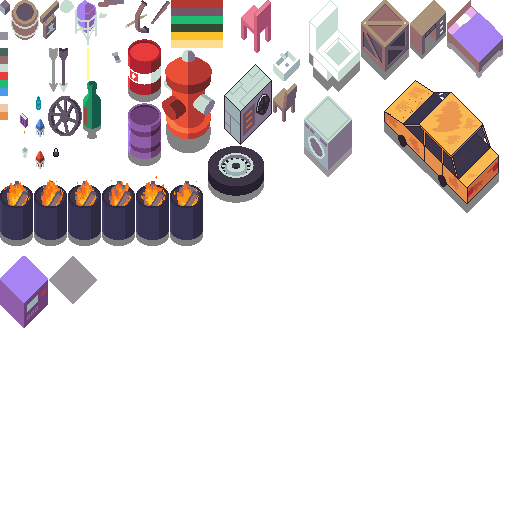
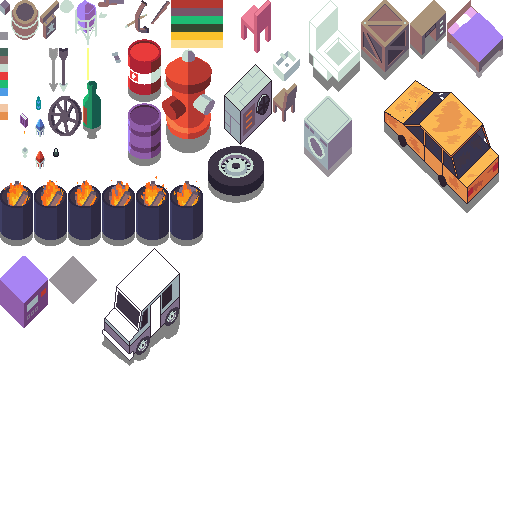
0.7.188

Changed region(s): [[0.1875, 0.5312, 0.375, 0.7188]]

diff --git a/bleed-common/lib/src/item_type.dart b/bleed-common/lib/src/item_type.dart
@@ -92,6 +92,7 @@ class ItemType {
   static const GameObjects_Chair                = Index_GameObjects + 29;
   static const GameObjects_Washing_Machine      = Index_GameObjects + 30;
   static const GameObjects_Car_Tire             = Index_GameObjects + 31;
+  static const GameObjects_Van                  = Index_GameObjects + 32;
 
   static const Resource_Wood = Index_Resources + 5;
   static const Resource_Stone = Index_Resources + 6;
@@ -222,11 +223,12 @@ class ItemType {
   static bool isNotTypeEmpty(int value) => value != Empty;
   static bool isPersistable(int value) => isTypeEnvironment(value);
 
-  
+
   static double getRadius(int value) => const <int, double> {
     GameObjects_Vending_Machine: 25,
     GameObjects_Bed: 25,
     GameObjects_Car: 25,
+    GameObjects_Van: 25,
     GameObjects_Crate_Wooden: 18,
     GameObjects_Barrel_Purple: 18,
     GameObjects_Barrel_Flaming: 18,
@@ -259,6 +261,7 @@ class ItemType {
     GameObjects_Aircon_South,
     GameObjects_Sink,
     GameObjects_Washing_Machine,
+    GameObjects_Van,
   ].contains(value);
 
   static bool isInteractable(int value) => const [
@@ -279,6 +282,7 @@ class ItemType {
         GameObjects_Toilet,
         GameObjects_Firehydrant,
         GameObjects_Car,
+        GameObjects_Van,
         GameObjects_Aircon_South,
         GameObjects_Tavern_Sign,
         GameObjects_Sink,
@@ -809,6 +813,7 @@ class ItemType {
      GameObjects_Washing_Machine,
      GameObjects_Car_Tire,
      GameObjects_Bottle,
+     GameObjects_Van,
   ];
 
   static bool isTypeBarrel(int type)=> const [
@@ -826,6 +831,7 @@ class ItemType {
     GameObjects_Vending_Machine,
     GameObjects_Firehydrant,
     GameObjects_Car,
+    GameObjects_Van,
     GameObjects_Washing_Machine,
   ].contains(type);
 }

diff --git a/bleed-server/lib/common/src/item_type.dart b/bleed-server/lib/common/src/item_type.dart
@@ -92,6 +92,7 @@ class ItemType {
   static const GameObjects_Chair                = Index_GameObjects + 29;
   static const GameObjects_Washing_Machine      = Index_GameObjects + 30;
   static const GameObjects_Car_Tire             = Index_GameObjects + 31;
+  static const GameObjects_Van                  = Index_GameObjects + 32;
 
   static const Resource_Wood = Index_Resources + 5;
   static const Resource_Stone = Index_Resources + 6;
@@ -222,11 +223,12 @@ class ItemType {
   static bool isNotTypeEmpty(int value) => value != Empty;
   static bool isPersistable(int value) => isTypeEnvironment(value);
 
-  
+
   static double getRadius(int value) => const <int, double> {
     GameObjects_Vending_Machine: 25,
     GameObjects_Bed: 25,
     GameObjects_Car: 25,
+    GameObjects_Van: 25,
     GameObjects_Crate_Wooden: 18,
     GameObjects_Barrel_Purple: 18,
     GameObjects_Barrel_Flaming: 18,
@@ -259,6 +261,7 @@ class ItemType {
     GameObjects_Aircon_South,
     GameObjects_Sink,
     GameObjects_Washing_Machine,
+    GameObjects_Van,
   ].contains(value);
 
   static bool isInteractable(int value) => const [
@@ -279,6 +282,7 @@ class ItemType {
         GameObjects_Toilet,
         GameObjects_Firehydrant,
         GameObjects_Car,
+        GameObjects_Van,
         GameObjects_Aircon_South,
         GameObjects_Tavern_Sign,
         GameObjects_Sink,
@@ -809,6 +813,7 @@ class ItemType {
      GameObjects_Washing_Machine,
      GameObjects_Car_Tire,
      GameObjects_Bottle,
+     GameObjects_Van,
   ];
 
   static bool isTypeBarrel(int type)=> const [
@@ -826,6 +831,7 @@ class ItemType {
     GameObjects_Vending_Machine,
     GameObjects_Firehydrant,
     GameObjects_Car,
+    GameObjects_Van,
     GameObjects_Washing_Machine,
   ].contains(type);
 }

diff --git a/gamestream_flutter/lib/game_atlas.dart b/gamestream_flutter/lib/game_atlas.dart
@@ -30,6 +30,7 @@ class AtlasItems {
         ItemType.GameObjects_Washing_Machine: 304,
         ItemType.GameObjects_Car_Tire: 208,
         ItemType.GameObjects_Bottle: 83,
+        ItemType.GameObjects_Van: 102,
         ItemType.Trinket_Ring_of_Health: 256,
         ItemType.Trinket_Ring_of_Damage: 288,
         ItemType.Empty: 224,
@@ -120,6 +121,7 @@ class AtlasItems {
         ItemType.GameObjects_Washing_Machine: 96,
         ItemType.GameObjects_Car_Tire: 146,
         ItemType.GameObjects_Bottle: 81,
+        ItemType.GameObjects_Van: 248,
         ItemType.Trinket_Ring_of_Health: 32,
         ItemType.Trinket_Ring_of_Damage: 32,
         ItemType.Weapon_Ranged_Shotgun: 32,
@@ -203,6 +205,7 @@ class AtlasItems {
         ItemType.GameObjects_Washing_Machine: 48,
         ItemType.GameObjects_Car_Tire: 56,
         ItemType.GameObjects_Bottle: 18,
+        ItemType.GameObjects_Van: 80,
         ItemType.Weapon_Rifle_Sniper: 48,
         ItemType.Weapon_Flamethrower: 64,
         ItemType.Weapon_Special_Bazooka: 48,
@@ -233,6 +236,7 @@ class AtlasItems {
         ItemType.GameObjects_Bed: 78,
         ItemType.GameObjects_Aircon_South: 81,
         ItemType.GameObjects_Sink: 33,
+        ItemType.GameObjects_Van: 129,
         ItemType.GameObjects_Chair: 39,
         ItemType.Weapon_Rifle_Sniper: 16,
         ItemType.Weapon_Special_Bazooka: 16,
@@ -262,6 +266,7 @@ class AtlasItems {
     ItemType.GameObjects_Vending_Machine: 0.6,
     ItemType.GameObjects_Firehydrant: 0.66,
     ItemType.GameObjects_Bottle: 0.6,
+    ItemType.GameObjects_Van: 0.6,
   }[itemType] ?? 0.5;
 }
 

diff --git a/gamestream_flutter/lib/render/renderer_gameobjects.dart b/gamestream_flutter/lib/render/renderer_gameobjects.dart
@@ -100,6 +100,11 @@ class RendererGameObjects extends Renderer {
       index++;
       if (!remaining) return;
       gameObject = gameObjects[index];
+
+      if (gameObject.renderY > Engine.Screen_Bottom) {
+        end();
+        return;
+      }
     }
 
     order = gameObject.renderOrder;

diff --git a/bleed-common/lib/src/version.dart b/bleed-common/lib/src/version.dart
@@ -1,4 +1,4 @@
-const version = '0.7.186';
+const version = '0.7.187';
 
 
 

diff --git a/bleed-server/lib/common/src/version.dart b/bleed-server/lib/common/src/version.dart
@@ -1,4 +1,4 @@
-const version = '0.7.186';
+const version = '0.7.187';
 
 
 

diff --git a/gamestream_flutter/README.md b/gamestream_flutter/README.md
@@ -14,6 +14,7 @@ ctrl + w:   minimal mode
 [ ] feature key use secondary weapon
 
 10.02.2023
+[x] feature item type van
 [x] feature item type bottle
 [x] feature check player projection for perception map
 [x] fix do not shine light through half and corner orientations
